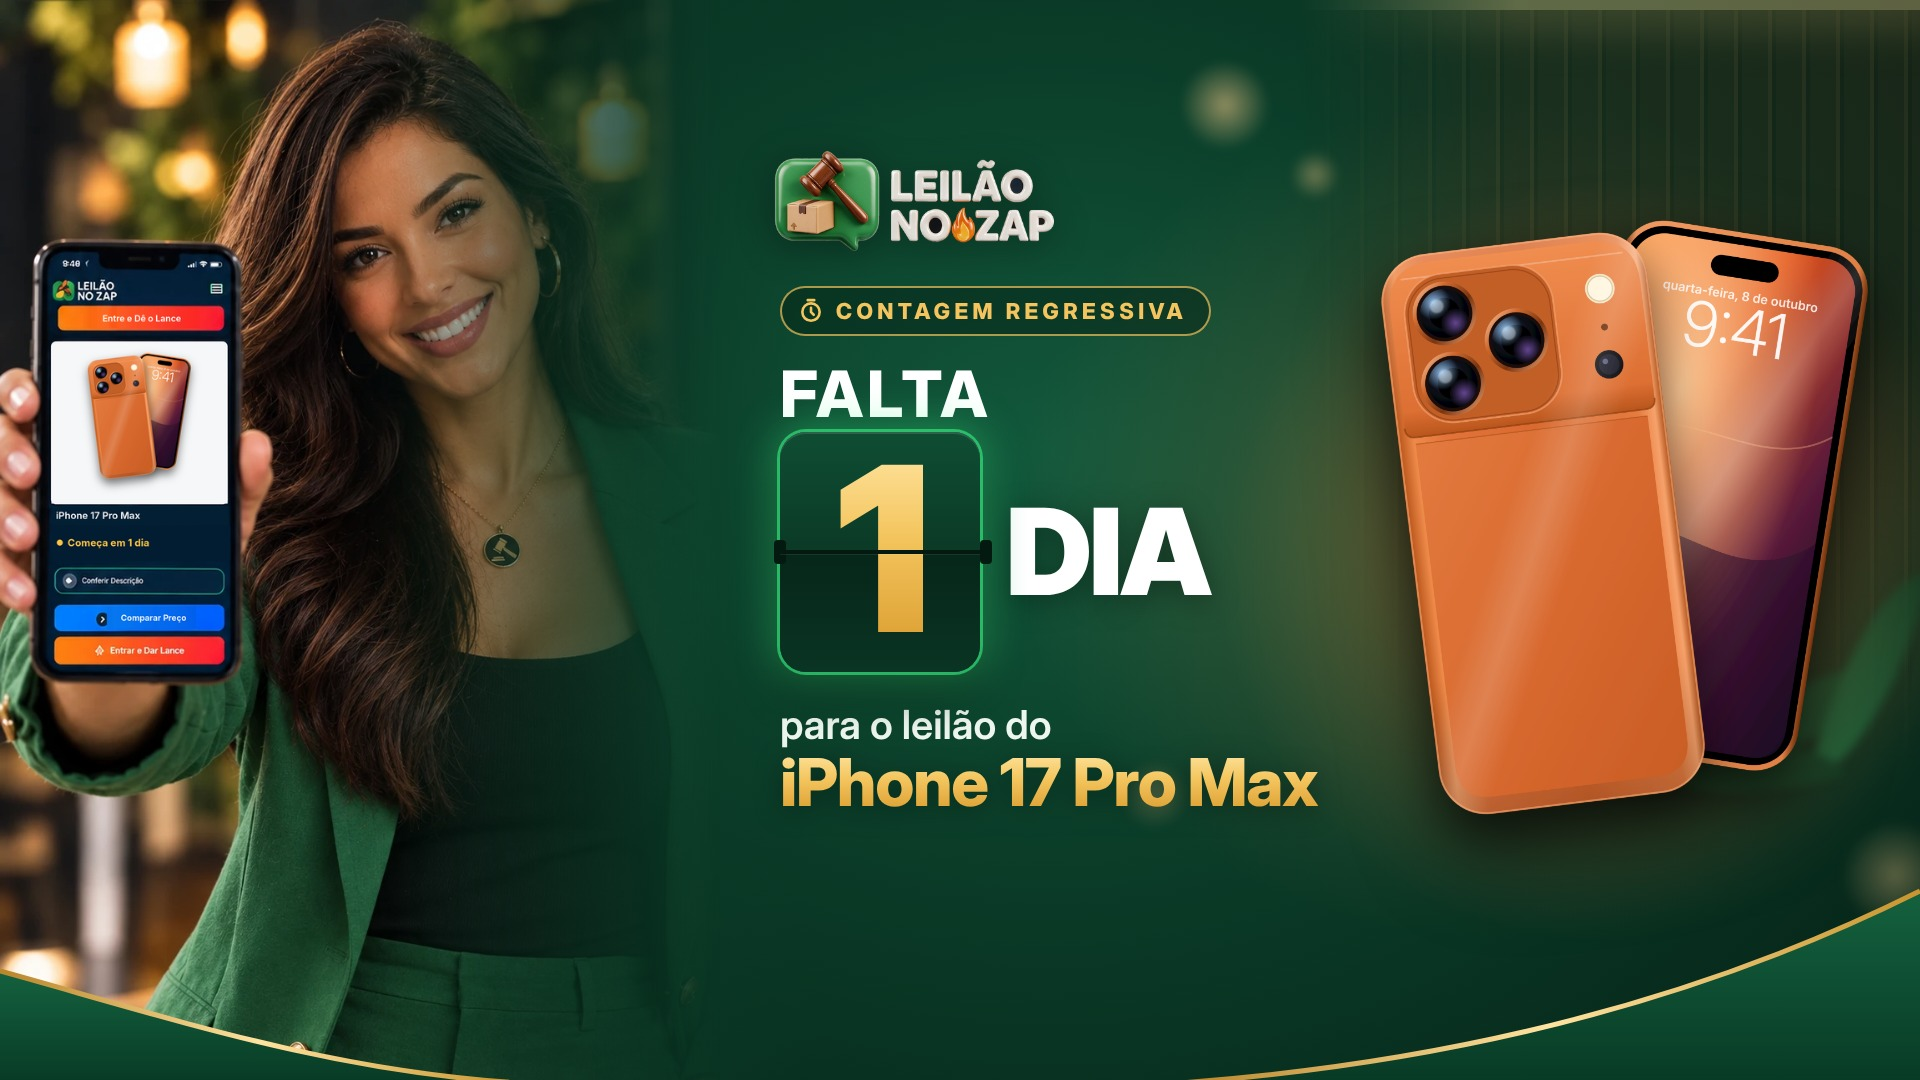
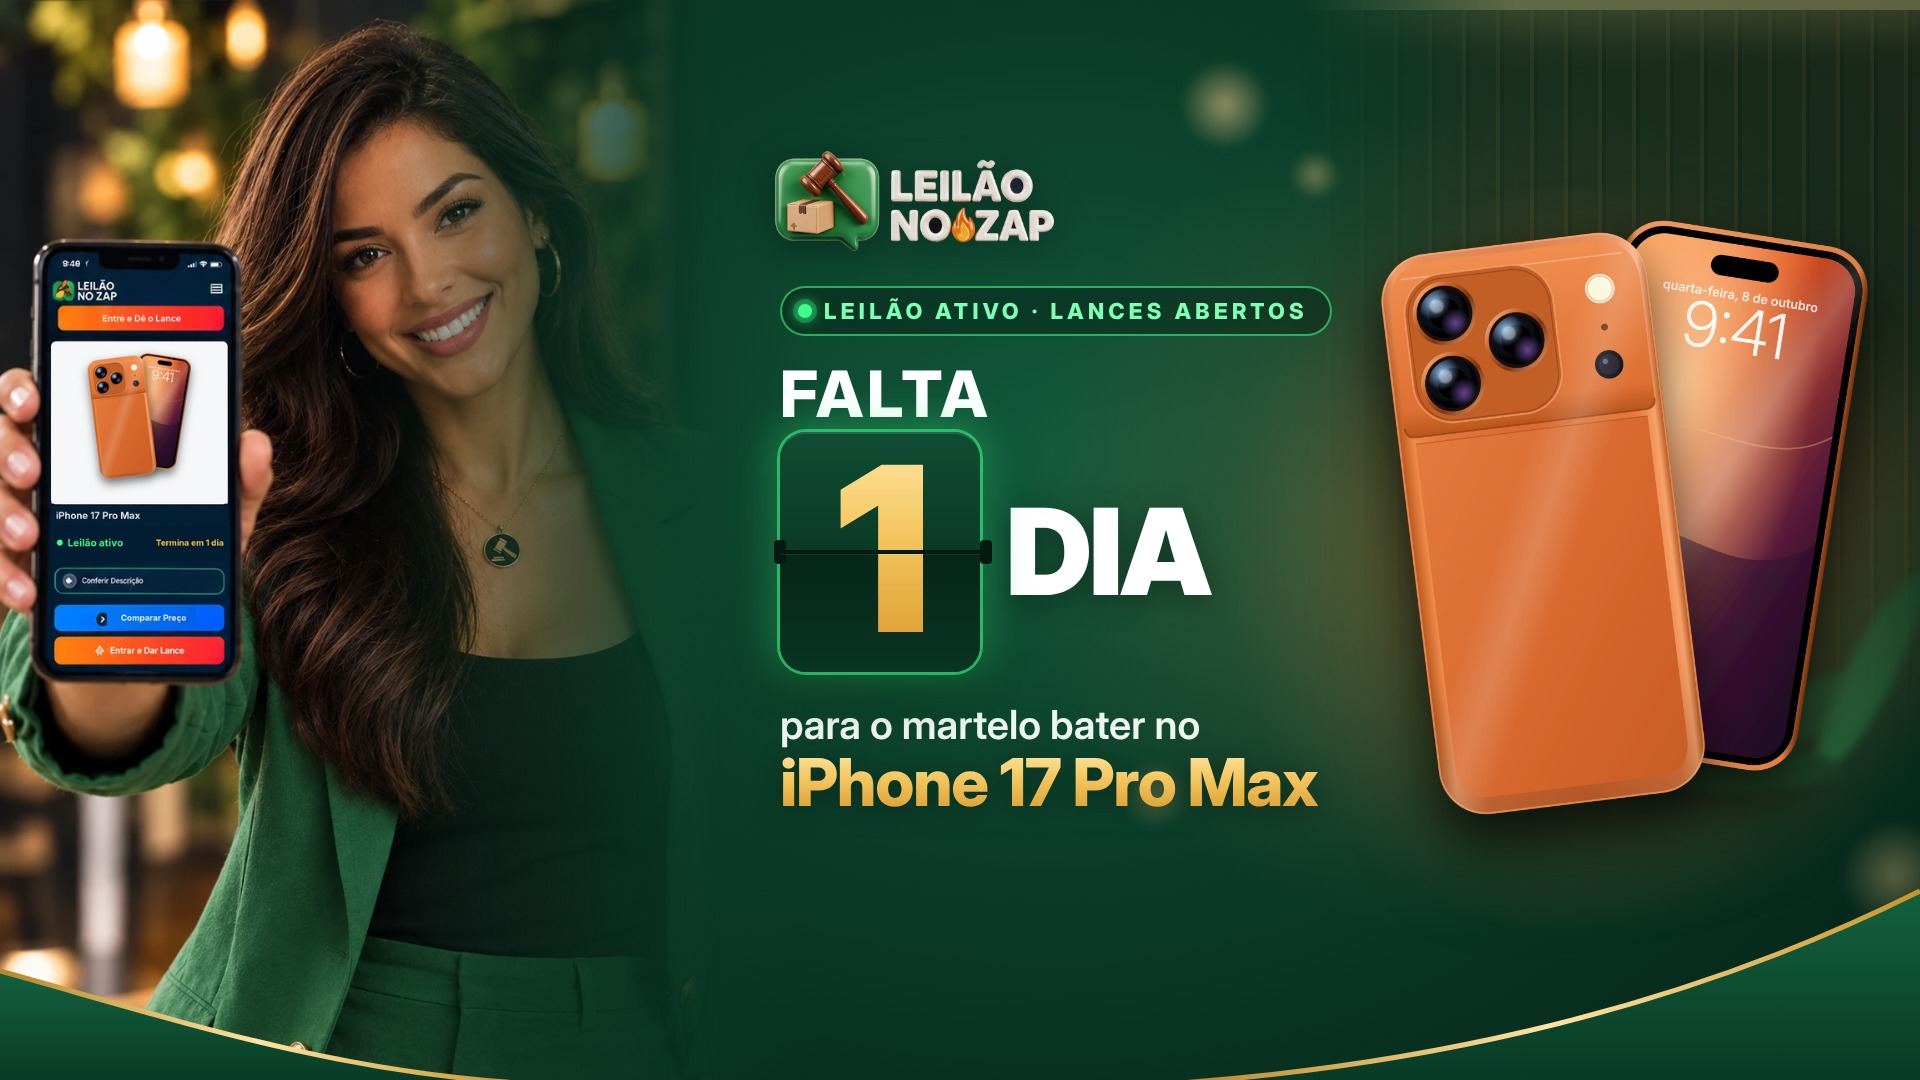
Contagem 'Falta 1 dia': leilão já ativo, martelo bate em 1 dia
Celular mostra 'Leilão ativo' + 'Termina em 1 dia'; selo 'Leilão ativo ·
Lances abertos' e texto 'para o martelo bater no iPhone 17 Pro Max'.

Claude-Session: https://claude.ai/code/session_01JihU9VfVTYTrMqQpApFEjH

Changed region(s): [[0.4062, 0.2444, 0.6875, 0.3361], [0.4688, 0.6417, 0.625, 0.7028], [0.0312, 0.4889, 0.125, 0.5194]]

diff --git a/marketing/banners/contagem-iphone-17-pro-max/banner.html b/marketing/banners/contagem-iphone-17-pro-max/banner.html
@@ -27,8 +27,8 @@
   .txt{position:absolute;left:780px;top:150px;width:560px}
   .logo{width:280px;display:block;margin:0 0 34px -6px;filter:drop-shadow(0 6px 18px rgba(0,0,0,.35))}
   .kicker{display:inline-flex;align-items:center;gap:12px;padding:10px 22px 10px 16px;border-radius:999px;
-    border:2px solid rgba(244,197,94,.7);background:rgba(4,30,20,.45);color:#f4c55e;font-weight:800;font-size:22px;letter-spacing:.2em}
-  .kicker svg{width:26px;height:26px}
+    border:2px solid rgba(61,255,138,.6);background:rgba(4,30,20,.45);color:#7dffb4;font-weight:800;font-size:22px;letter-spacing:.2em}
+  .kicker .dot{width:14px;height:14px;border-radius:50%;background:#3dff8a;box-shadow:0 0 0 5px rgba(61,255,138,.25),0 0 14px 2px rgba(61,255,138,.8)}
   .falta{margin:26px 0 6px;font-weight:800;font-size:64px;letter-spacing:.06em;color:#fff;line-height:1}
   .count{display:flex;align-items:center;gap:26px}
   .tile{position:relative;width:200px;height:240px;border-radius:26px;
@@ -74,10 +74,10 @@
   </svg>
   <div class="txt">
     <img class="logo" src="logo.png">
-    <div class="kicker"><svg viewBox="0 0 24 24" fill="none" stroke="#f4c55e" stroke-width="2.4" stroke-linecap="round"><circle cx="12" cy="13" r="8"/><path d="M12 9v4l2.5 2.5M9 2h6"/></svg>CONTAGEM REGRESSIVA</div>
+    <div class="kicker"><span class="dot"></span>LEILÃO ATIVO · LANCES ABERTOS</div>
     <div class="falta" id="falta">FALTA</div>
     <div class="count"><div class="tile"><span id="n">1</span></div><div class="unit" id="unit">DIA</div></div>
-    <div class="para">para o leilão do</div>
+    <div class="para">para o martelo bater no</div>
     <div class="prod">iPhone 17 Pro Max</div>
   </div>
 </div><script>

diff --git a/marketing/banners/contagem-iphone-17-pro-max/tela_celular.py b/marketing/banners/contagem-iphone-17-pro-max/tela_celular.py
@@ -1,5 +1,5 @@
 """Gera a foto da Leila com a tela do celular mostrando o iPhone 17 Pro Max.
-Uso: python3 tela_celular.py "Começa em 1 dia" saida.png"""
+Uso: python3 tela_celular.py "Termina em 1 dia" saida.png"""
 import sys, os
 from PIL import Image, ImageDraw, ImageFont
 AQUI = os.path.dirname(os.path.abspath(__file__))
@@ -25,8 +25,9 @@ reg.paste(ip, (int(((61+272.5)/2-X0)*K-ip.width/2), int((415-Y0)*K)), ip)
 d.rectangle(R(62, 606, 273, 629), fill=(3, 31, 52))
 d.text(P(67, 617.5), "iPhone 17 Pro Max", font=f('Inter-SemiBold.otf', 11.5), fill='white', anchor='lm')
 d.rectangle(R(62, 630, 276, 672), fill=(2, 28, 49))
-d.ellipse(R(68, 646.5, 75, 653.5), fill=(255, 196, 70))
-d.text(P(81, 650), status, font=f('Inter-Bold.otf', 12), fill=(255, 196, 70), anchor='lm')
+d.ellipse(R(68, 646.5, 75, 653.5), fill=(61, 255, 138))
+d.text(P(81, 650), "Leilão ativo", font=f('Inter-Bold.otf', 12), fill=(61, 255, 138), anchor='lm')
+d.text(P(268, 650), status, font=f('Inter-Bold.otf', 10), fill=(255, 196, 70), anchor='rm')
 restretch(128, 235, 727, 753, 726.5)
 d.text(P(184, 740), "Comparar Preço", font=f('Inter-SemiBold.otf', 10), fill='white', anchor='mm')
 reg = reg.resize((X1-X0, Y1-Y0), Image.LANCZOS)

diff --git a/marketing/banners/contagem-iphone-17-pro-max/LEIAME.md b/marketing/banners/contagem-iphone-17-pro-max/LEIAME.md
@@ -3,9 +3,9 @@
 Banners 1920×1080 (16:9) com a Leila. Para gerar outro dia da contagem:
 
 ```bash
-python3 tela_celular.py "Começa em 2 dias" leila-faltam-2-dias.png
+python3 tela_celular.py "Termina em 2 dias" leila-faltam-2-dias.png
 node render.js "n=2&falta=FALTAM&unit=DIAS&leila=leila-faltam-2-dias.png" faltam-2-dias-1920x1080.png
 ```
 
-- `tela_celular.py`: troca o texto de status na tela do celular que a Leila segura.
+- `tela_celular.py`: troca o prazo ("Termina em ...") na tela do celular que a Leila segura.
 - `banner.html`: arte do banner; `n`, `falta`, `unit` e `leila` vêm do endereço (depois do `#`).
